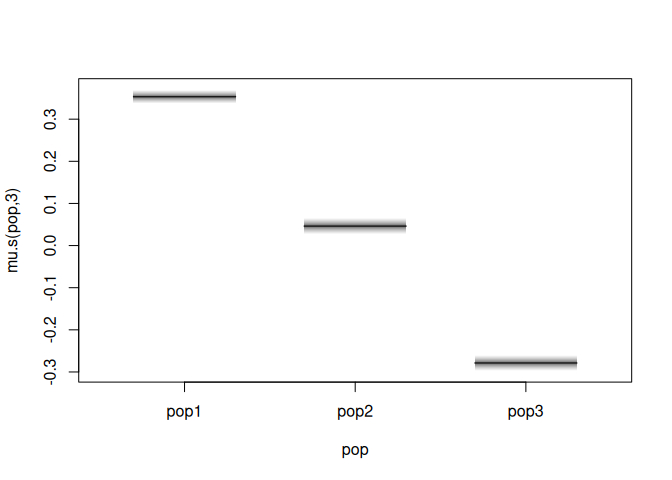
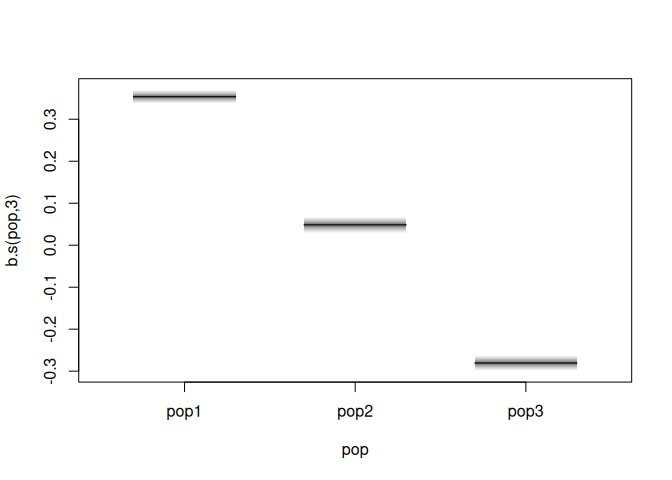
expanded .Rmd usage and examples

diff --git a/README.md b/README.md
@@ -7,10 +7,10 @@ Alexis Lazaris
 # Overview
 
 The goal of gamlss2.ISD is to estimate the exponent of the Individual
-Size Distribution for size spectra as described with a bounded Power-Law
-distribution. The exponent can be estimated from raw body size data
-within the GAMLSS framework as applied by the `gamlss2` package. All the
-functionalities of the `gamlss2` package can be used.
+Size Distribution (ISD) for size spectra as described with a bounded
+Power-Law distribution. The exponent can be estimated from raw body size
+data within the GAMLSS framework as applied by the `gamlss2` package.
+All the functionalities of the `gamlss2` package can be used.
 
 # Installation
 
@@ -41,10 +41,36 @@ The main function of the `gamlss2.ISD` package is `bPL` that can be used
 inside a `gamlss2` call:
 
 ``` r
-gamlss2(size ~ fac + s(x1, x2) + s(x3, by = fac) + s(id, bs = "re"),
-        data = data,
-        family = bPL(data$counts, data$size_minima, data$size_maxima))
+gamlss2(<sizes> ~ fac + te(x, z) + s(w, by = fac) + s(id, bs = "re"),
+        data = <data>,
+        family = bPL(<number_of_observations>, <minimum_size>, <maximum_size>))
 ```
+
+which estimates the effects of covariates on the exponent (`b`) of the
+ISD.
+
+## Main variables
+
+- `<sizes>` can be a vector of individual measurements of size or it can
+  be a 2-column matrix of the bin ranges if data are collected in bins
+  (`cbind(bin_from, bin_to)`). Both cases are handled separately
+  internally with their respective likelihoods as developed by Edwards
+  et al. (2017) and Edwards et al. (2020), respectively.
+- `<number_of_observations>` can be a vector of
+  `length == length(sizes)` (or `length == nrow(sizes)`) that denotes
+  the number or, e.g., density of each observations and can be either an
+  integer or a decimal. Alternatively, it can simply be a `length == 1`
+  number when no such measurement exists (e.g. `bPL(counts = 1, ...)`).
+- `<minimum_size>` and `<maximum_size>` denote the range of sizes that
+  each observation is bounded in. It can either be a single number if
+  all observations have the same size limits of a vector of
+  `length == length(sizes)` (or `length == nrow(sizes)`) if different
+  size limits for, e.g., different groups are needed. In that case, we
+  need to prepare the data with an equivalent of
+  `data$minima = ave(data$size, data$group, FUN = min)` and use it as
+  `bPL(counts = .., lower = data$minima, upper = ...)`.
+- `<data>` is the dataset to look for `<sizes>` as well as the rhs
+  covariates.
 
 # Examples
 
@@ -57,7 +83,7 @@ library(gamlss2)
 library(sizeSpectra)
 
 library(brms)
-#devtools::install_github("jswesner/isdbayes")
+#devtools::install_github("jswesner/isdbayes") # a bayesian alternative to estimate within the ISD
 library(isdbayes)
 
 library(gamlss2.ISD)
@@ -86,19 +112,19 @@ summary(m)
 #> gamlss2(formula = size ~ 1, data = d, family = bPL(1, 1, 1000))
 #> ---
 #> Family: bPL 
-#> Link function: mu = identity
+#> Link function: b = identity
 #> *--------
-#> Parameter: mu 
+#> Parameter: b 
 #> ---
 #> Coefficients:
 #>             Estimate Std. Error t value Pr(>|t|)    
-#> (Intercept)  -2.0277     0.0332  -61.08   <2e-16 ***
+#> (Intercept) -1.98071    0.03186  -62.17   <2e-16 ***
 #> ---
 #> Signif. codes:  0 '***' 0.001 '**' 0.01 '*' 0.05 '.' 0.1 ' ' 1
 #> *--------
 #> n = 1000 df =  1 res.df =  999
-#> Deviance = 3866.4214 Null Dev. Red. = 0%
-#> AIC = 3868.4214 elapsed =  0.00sec
+#> Deviance = 4044.7265 Null Dev. Red. = 0%
+#> AIC = 4046.7265 elapsed =  0.01sec
 ```
 
 ## Estimate the ISD exponent from multiple populations
@@ -143,7 +169,7 @@ Timing:
 
 ``` r
 summary(m)$elapsed # seconds of model fitting
-#> [1] 0.847
+#> [1] 0.839
 ```
 
 See the estimates:
@@ -151,9 +177,9 @@ See the estimates:
 ``` r
 predict(m, newdata = data.frame(pop = c("pop1", "pop2", "pop3")), se.fit = TRUE)
 #>            fit          se
-#> [1,] -1.203587 0.007649913
-#> [2,] -1.510790 0.009018004
-#> [3,] -1.836143 0.009548391
+#> [1,] -1.203280 0.007649465
+#> [2,] -1.508659 0.009011311
+#> [3,] -1.838063 0.009562694
 ```
 
 Alternatively, for faster fitting, we can aggregate equal sizes with
@@ -174,7 +200,7 @@ Reduced model fitting time:
 
 ``` r
 summary(m)$elapsed
-#> [1] 0.045
+#> [1] 0.049
 ```
 
 Identical estimates:
@@ -182,9 +208,9 @@ Identical estimates:
 ``` r
 predict(m, newdata = data.frame(pop = c("pop1", "pop2", "pop3")), se.fit = TRUE)
 #>            fit          se
-#> [1,] -1.203587 0.007649913
-#> [2,] -1.510790 0.009018004
-#> [3,] -1.836143 0.009548391
+#> [1,] -1.203280 0.007649465
+#> [2,] -1.508659 0.009011311
+#> [3,] -1.838063 0.009562694
 ```
 
 We can, also, utilize the random effects structure that `gamlss2`
@@ -201,9 +227,9 @@ Where we obtain similar estimates:
 ``` r
 predict(m, newdata = data.frame(pop = factor(levels(m$model$pop), levels(m$model$pop))), se.fit = TRUE)
 #>            fit          se
-#> [1,] -1.203856 0.007110699
-#> [2,] -1.510806 0.009327721
-#> [3,] -1.835768 0.009241094
+#> [1,] -1.203546 0.007110215
+#> [2,] -1.508678 0.009321382
+#> [3,] -1.837689 0.009254466
 ```
 
 And we can, also, visualize using the built-in `plot.gamlss2`:
@@ -468,6 +494,78 @@ ggplot(predictions) +
 ```
 
 ![](README_files/figure-gfm/ex4_eff-1.png)<!-- -->
+
+## Using binned data
+
+As a very simple example, we demonstrate the differences, in estimating
+the exponent of ISD from binned data, between using the middle value of
+the bin or the full range of the bin. We’ll use the
+`sizeSpectra::binData` utility function for this:
+
+``` r
+d = binData(rPLB(1e5, -1.5, 1, 100), binWidth = "2k")$binVals
+```
+
+And then estimate the exponent either the middle value (which is
+slightly off):
+
+``` r
+summary(
+  gamlss2(binMid ~ 1, 
+          data = d, 
+          family = bPL(d$binCount, min(d$binMid), max(d$binMid)))
+)
+#> GAMLSS-RS iteration  1: Global Deviance = 537254.9778 eps = 0.003052     
+#> GAMLSS-RS iteration  2: Global Deviance = 537254.9778 eps = 0.000000
+#> Call:
+#> gamlss2(formula = binMid ~ 1, data = d, family = bPL(d$binCount, 
+#>     min(d$binMid), max(d$binMid)))
+#> ---
+#> Family: bPL 
+#> Link function: b = identity
+#> *--------
+#> Parameter: b 
+#> ---
+#> Coefficients:
+#>             Estimate Std. Error t value Pr(>|t|)    
+#> (Intercept) -1.72492    0.00322  -535.8 2.85e-15 ***
+#> ---
+#> Signif. codes:  0 '***' 0.001 '**' 0.01 '*' 0.05 '.' 0.1 ' ' 1
+#> *--------
+#> n = 7 df =  1 res.df =  6
+#> Deviance = 537254.9778 Null Dev. Red. = 0%
+#> AIC = 537256.9778 elapsed =  0.00sec
+```
+
+or the bin range (which estimates ‘b’ more closely):
+
+``` r
+summary(
+  gamlss2(cbind(binMin, binMax) ~ 1, 
+          data = d, 
+          family = bPL(d$binCount, min(d$binMin), max(d$binMax)))
+)
+#> GAMLSS-RS iteration  1: Global Deviance = 343474.0638 eps = 0.004798     
+#> GAMLSS-RS iteration  2: Global Deviance = 343474.0638 eps = 0.000000
+#> Call:
+#> gamlss2(formula = cbind(binMin, binMax) ~ 1, data = d, family = bPL(d$binCount, 
+#>     min(d$binMin), max(d$binMax)))
+#> ---
+#> Family: bPL 
+#> Link function: b = identity
+#> *--------
+#> Parameter: b 
+#> ---
+#> Coefficients:
+#>              Estimate Std. Error t value Pr(>|t|)    
+#> (Intercept) -1.526475   0.002657  -574.5 1.88e-15 ***
+#> ---
+#> Signif. codes:  0 '***' 0.001 '**' 0.01 '*' 0.05 '.' 0.1 ' ' 1
+#> *--------
+#> n = 7 df =  1 res.df =  6
+#> Deviance = 343474.0638 Null Dev. Red. = 0%
+#> AIC = 343476.0638 elapsed =  0.00sec
+```
 
 ## References
 
